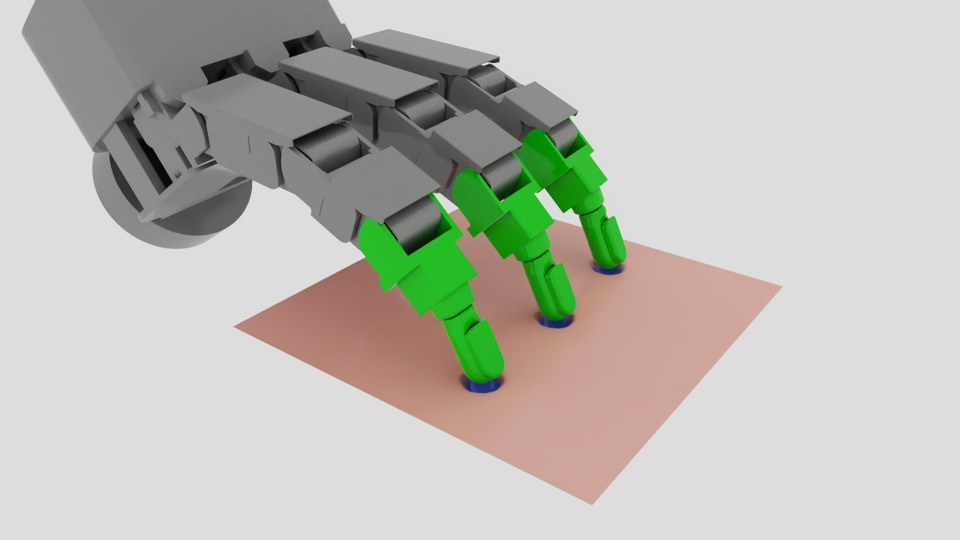
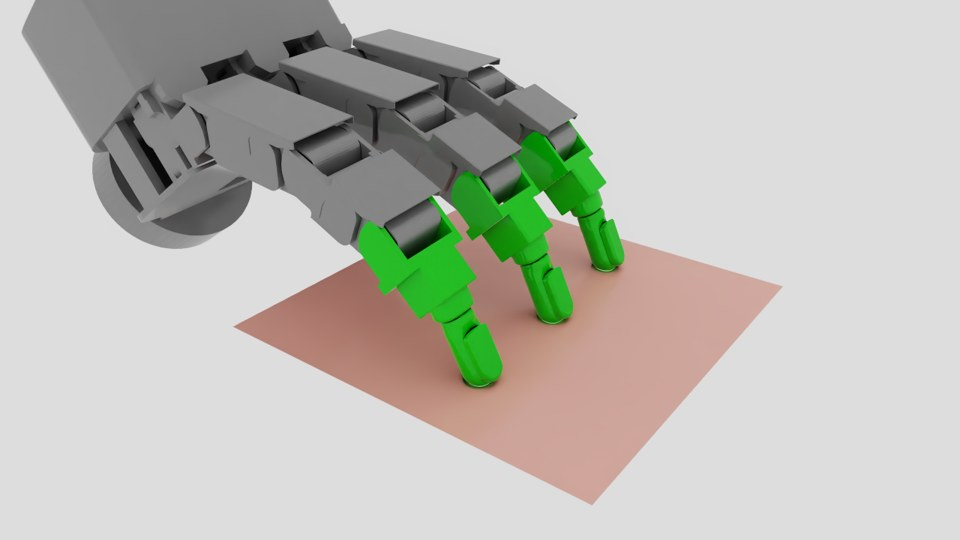
MDE 페이지: 손끝이 들어간 깊이만큼 자국이 생기도록 바꾼 소재 비교 결과로 갱신 (소스)

diff --git a/homepage-src/docs/projects/mde.md b/homepage-src/docs/projects/mde.md
@@ -65,7 +65,8 @@ flowchart LR
 
 연구용으로 가장 널리 쓰이는 다지 핸드인 **Allegro Hand**(Wonik Robotics, 16자유도)가 160 × 160 mm 패드를 세 손가락으로
 세 번 눌렀다 떼는 장면입니다. 손끝 접촉력을 PhysX에서 읽어 MDE가 패드 표면 변형을 계산하고, 눌린 깊이를 청색 농도로 표시합니다.
-손끝 형상은 asset의 충돌 형상에서 직접 측정해(반지름 약 6.9 mm 구면) 패드가 손끝 모양대로 눌리도록 했습니다.
+패드는 소재에 맞춘 강성으로 실제로 눌리고, 손끝이 들어간 자리와 깊이가 그대로 자국이 됩니다
+(손끝과 자국 바닥 사이 간격 약 0.04 mm).
 핸드 asset은 Isaac Sim 5.0 공식 asset을 그대로 사용합니다.
 
 <figure markdown>
@@ -92,20 +93,19 @@ flowchart LR
 
 | 소재 Profile | 계열 | 눌린 깊이 | 해제 후 남은 자국 | 거동 |
 |---|---|---|---|---|
-| Silicone rubber (soft) | 탄성체 | 5.4 mm | 0.0 mm | 깊게 눌리고 완전히 복원 |
-| Elastomer pad | 탄성체 | 1.1 mm | 0.0 mm | 단단해 얕게 눌리고 복원 |
-| Soft foam | 폴리머 폼 | 5.3 mm | 2.0 mm | 일부 영구변형 |
-| Dense foam | 폴리머 폼 | 2.4 mm | 0.9 mm | 얕은 영구변형 |
-| Clay / plasticine | 점토 | 7.2 mm | 6.8 mm | 대부분 영구변형 |
+| Silicone rubber (soft) | 탄성체 | 2.3 mm | 0.0 mm | 깊게 눌리고 완전히 복원 |
+| Elastomer pad | 탄성체 | 1.2 mm | 0.0 mm | 단단해 얕게 눌리고 복원 |
+| Soft foam | 폴리머 폼 | 2.3 mm | 0.7 mm | 일부 영구변형 |
+| Dense foam | 폴리머 폼 | 2.0 mm | 0.7 mm | 일부 영구변형 |
+| Clay / plasticine | 점토 | 2.4 mm | 2.3 mm | 대부분 영구변형 |
 
 - 소재 차이는 코드가 아니라 **Profile 파일 교체**만으로 만들어집니다.
-- 영구변형이 생긴 소재에서는 항복 개시·자국 한도 초과 이벤트가 Ground Truth로 자동 기록되었습니다.
+- 영구변형이 생긴 폼·점토에서는 항복 개시 이벤트가, 자국이 한도(1 mm)를 넘은 점토에서는 한도 초과 이벤트가 Ground Truth로 자동 기록되었습니다.
 
 !!! warning "해석 시 주의"
     - 물성값은 문헌 범위에서 고른 **잠정값**입니다. 위 수치는 특정 제품의 예측이 아니라 파이프라인 동작을 보여 주는 예시입니다.
-    - 현재 장면에서 손끝 힘은 소재와 무관하게 같습니다(중지 약 12 N). 패드의 무름이 접촉력에 되먹임되는 결합은 다음 단계입니다.
-    - 손끝은 구면으로 근사했습니다. 눌린 깊이가 손끝 반지름(약 7 mm)에 가까워지면 손가락 측면 접촉이 빠져 있어
-      깊이를 크게 계산합니다(점토가 해당).
+    - 손가락은 목표 각도까지 움직이는 위치 제어라, 소재가 달라도 눌린 깊이는 비슷하고 차이는 해제 후 자국에 드러납니다.
+    - 접촉력은 근사입니다. 패드의 무름은 반영하지만 소재 모델의 힘–깊이 관계와 정확히 일치하지는 않습니다.
 
 ## 5. 개발 단계
 
